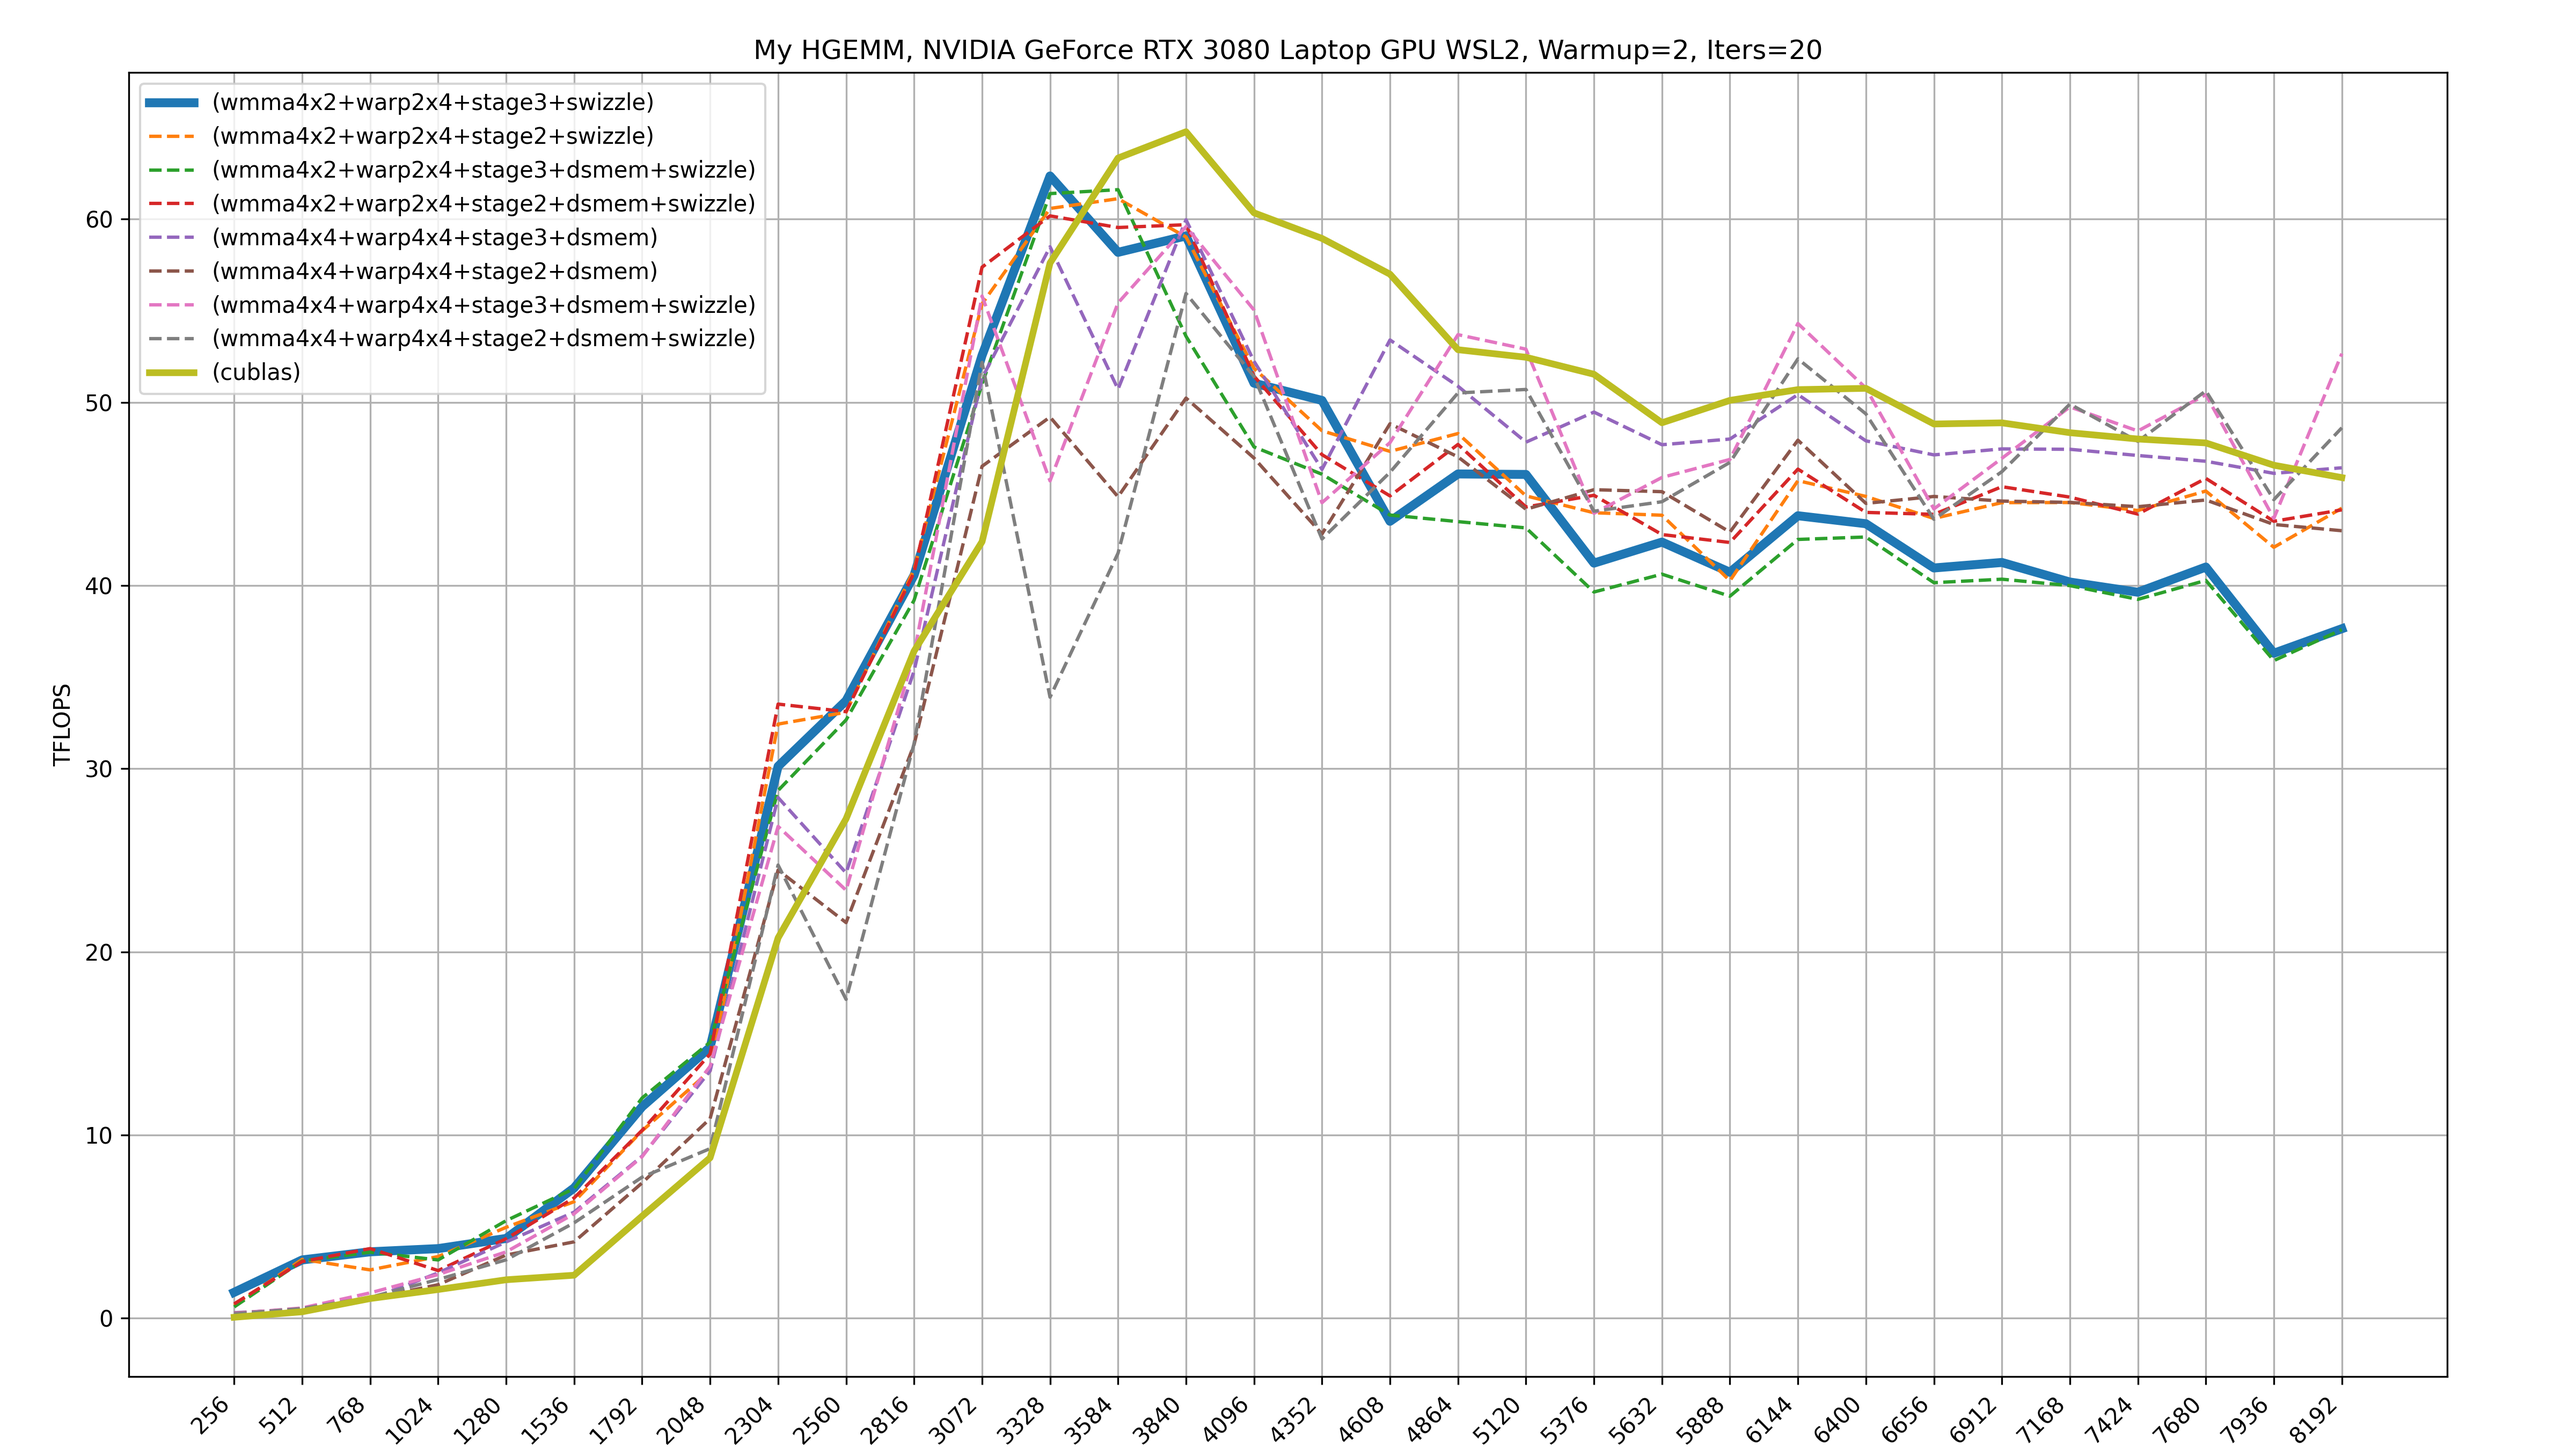
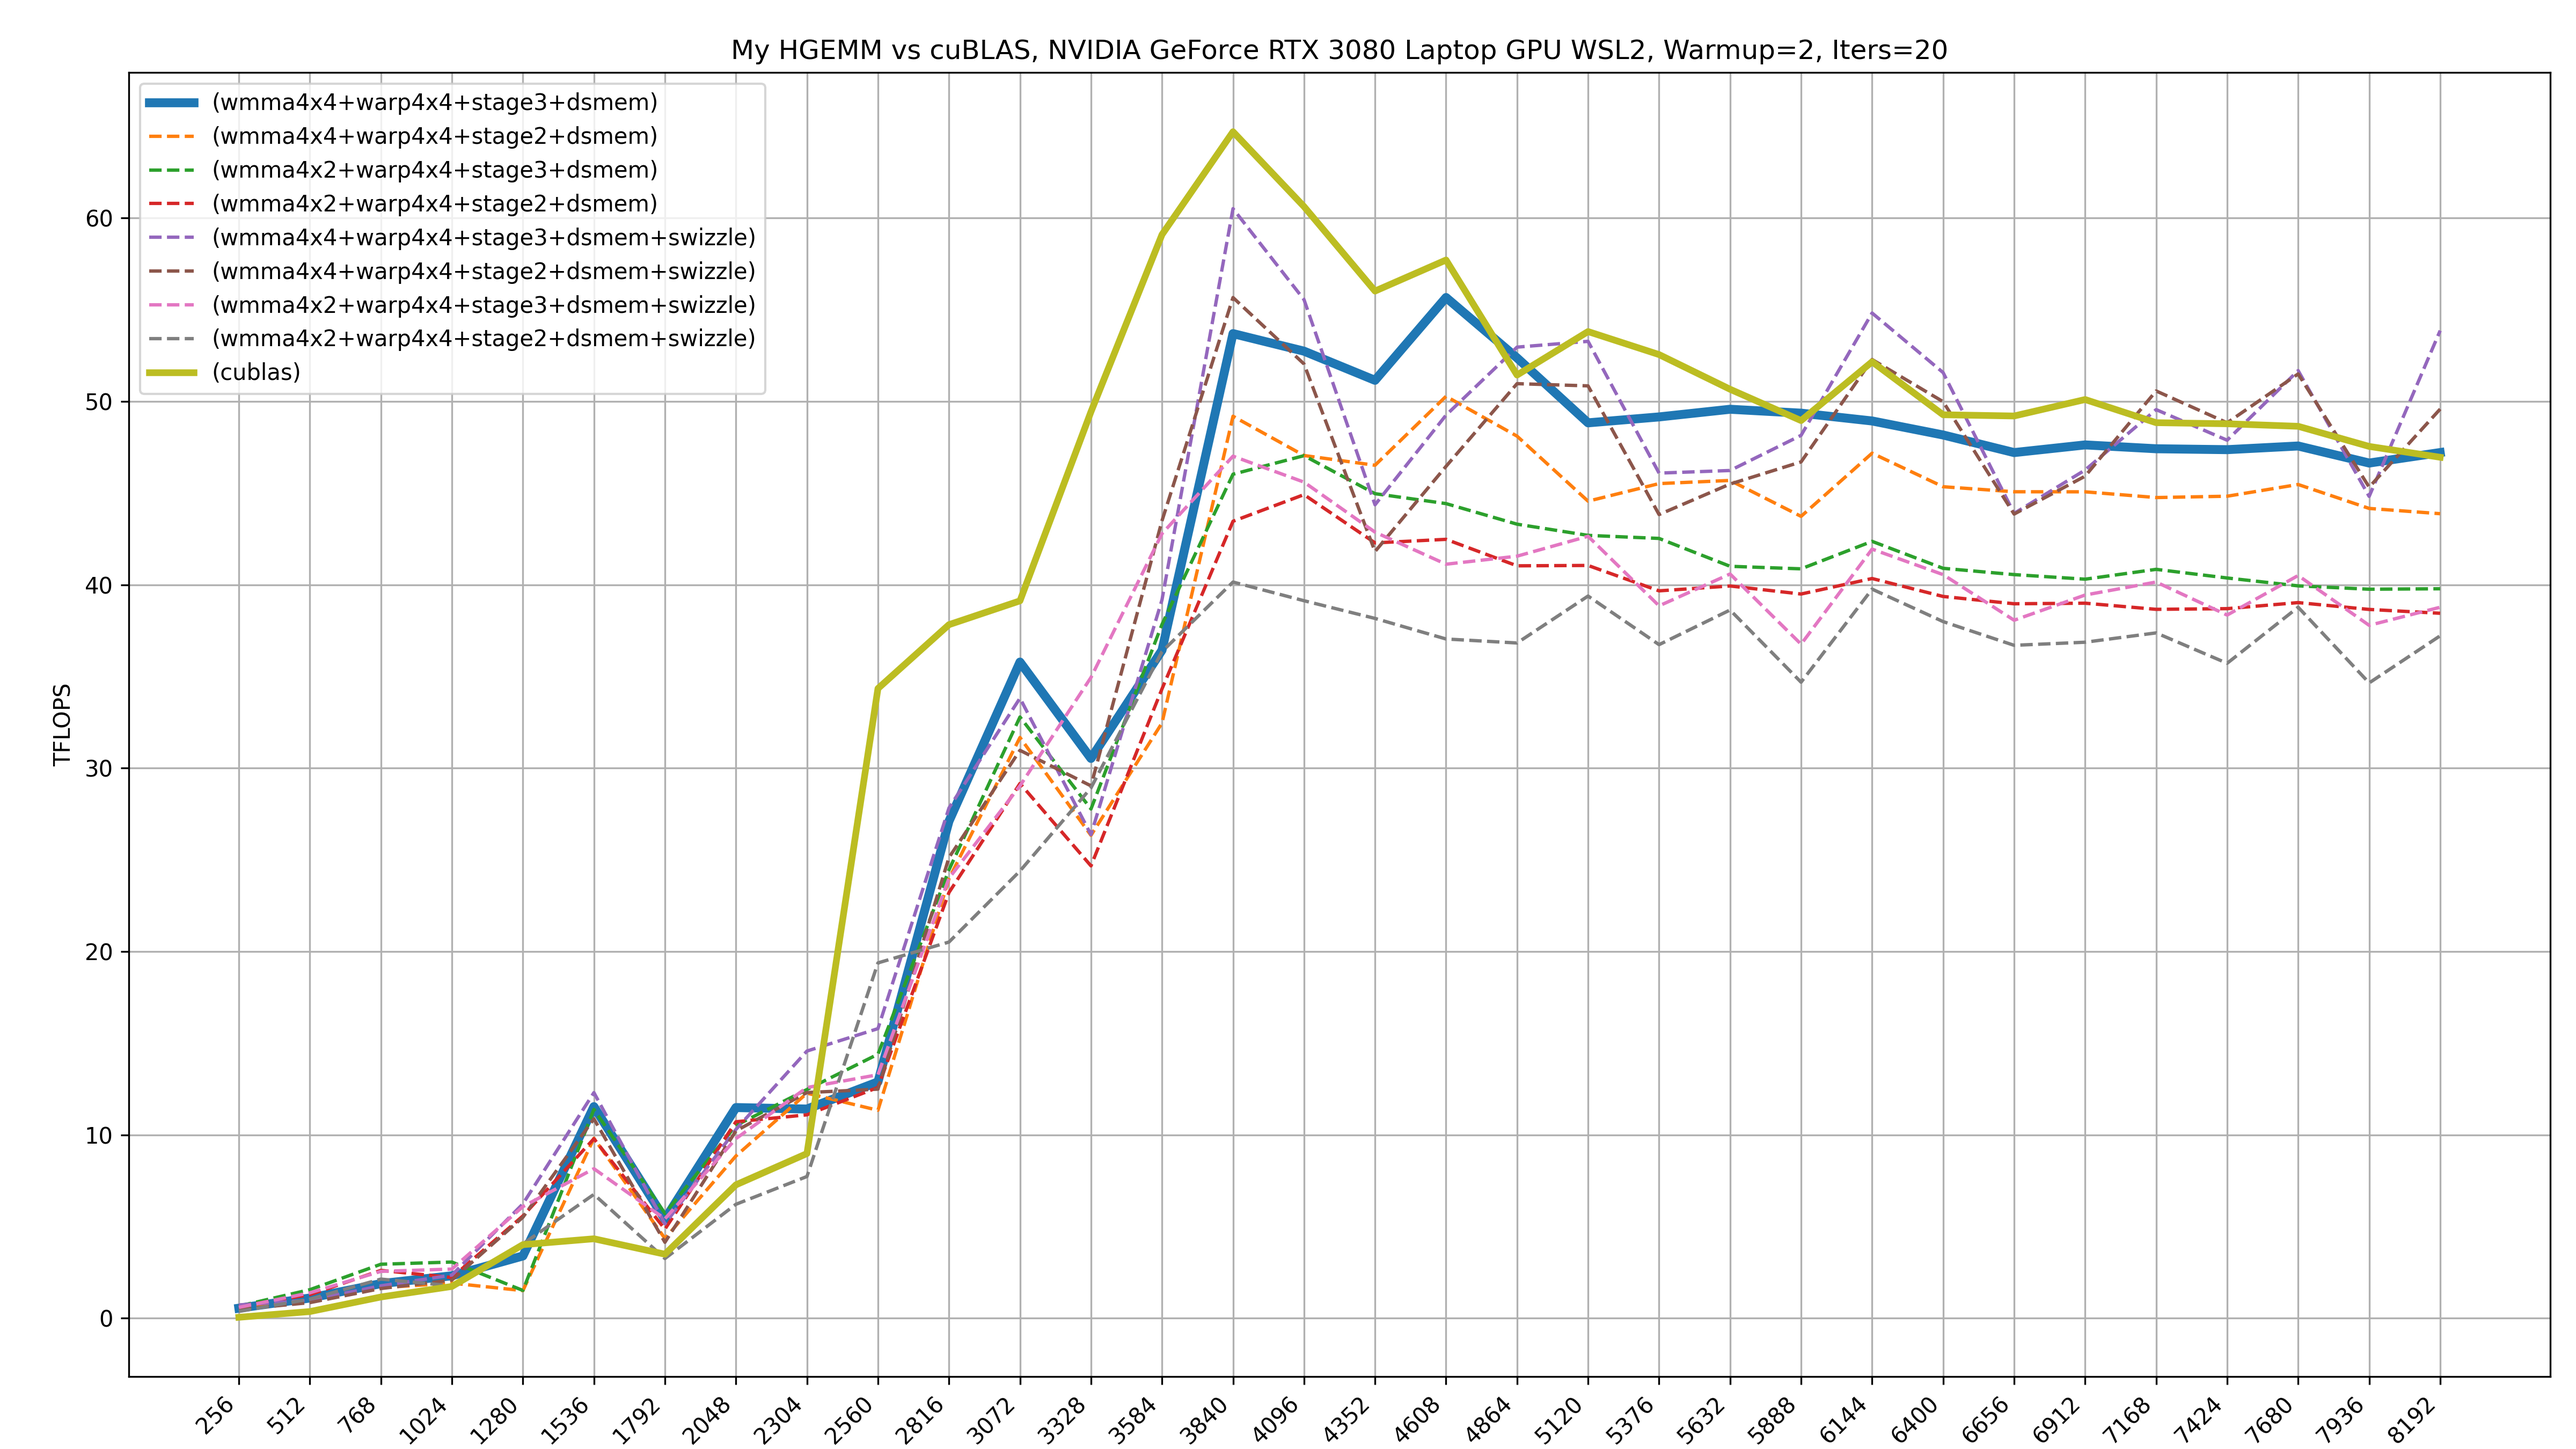
add plot tflops

diff --git a/hgemm/hgemm.py b/hgemm/hgemm.py
@@ -213,8 +213,8 @@ def plot_tflops():
     import matplotlib.pyplot as plt
     import numpy as np
     _, ax = plt.subplots(figsize=(16, 9))
-    plt.subplots_adjust(left=0.05, right=0.95, top=0.95, bottom=0.05)
-    ax.set_title(f"My HGEMM, {get_device_name()}, Warmup={args.warmup}, Iters={args.iters}")
+    plt.subplots_adjust(left=0.03, right=0.99, top=0.95, bottom=0.05)
+    ax.set_title(f"My HGEMM vs cuBLAS, {get_device_name()}, Warmup={args.warmup}, Iters={args.iters}")
     ax.set_xlabel("M=N=K")
     ax.set_ylabel("TFLOPS")
     ax.grid(True)
